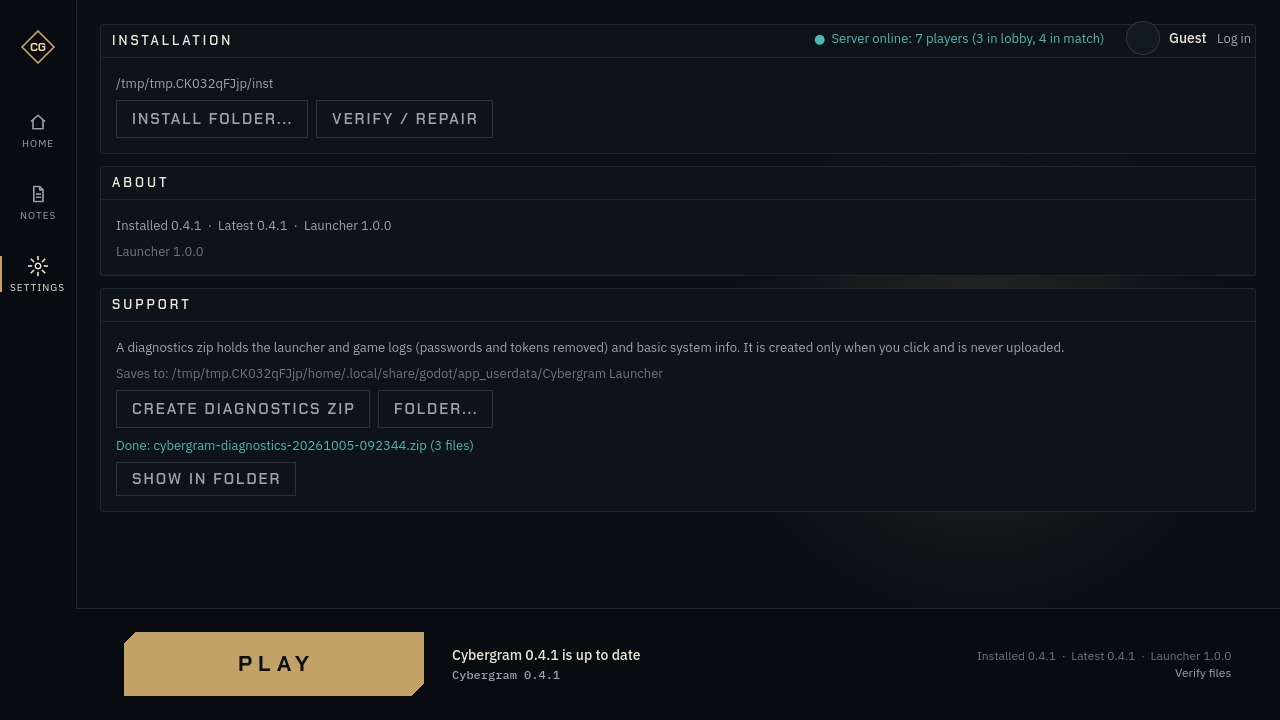
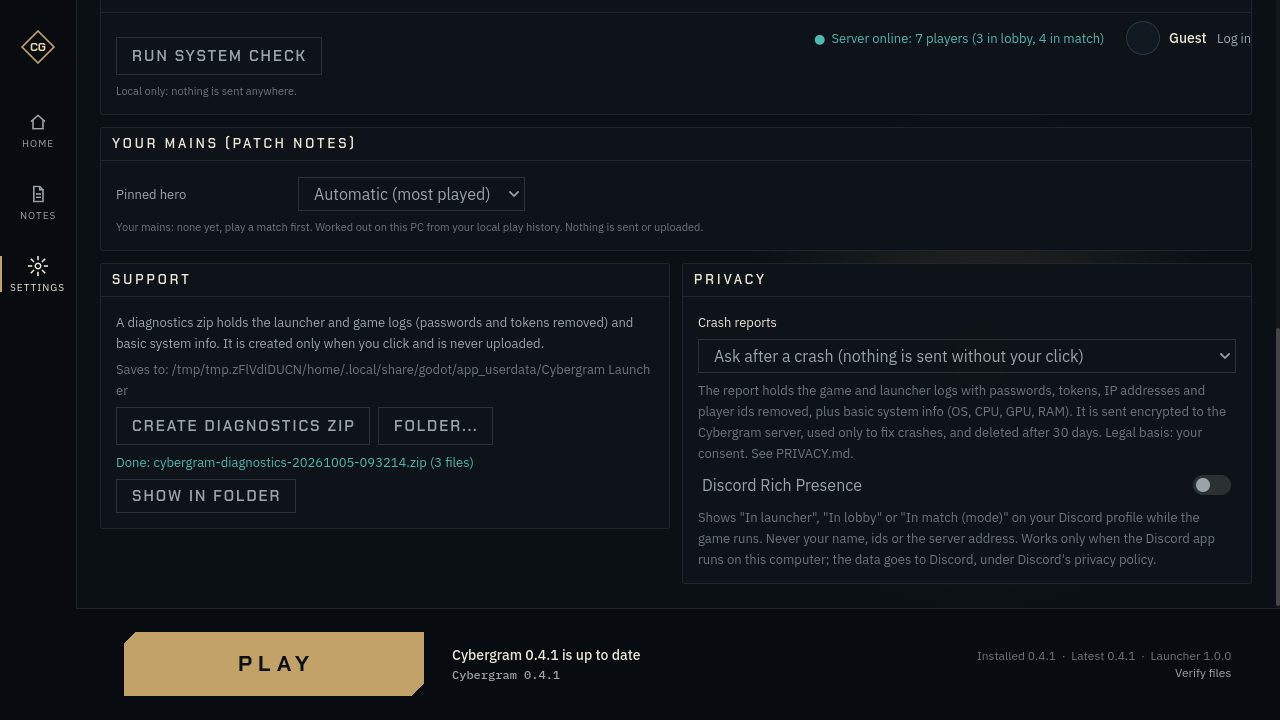
docs(privacy): launch codes, status/ping, party, crash reports, Discord
PRIVACY.md version 3: crash reports (purpose, consent, what is sent and
removed, DTLS only, 30-day retention, in-memory rate counters, how to ask
for deletion), the local diagnostics zip, Discord Rich Presence (opt-in),
launch codes (hash only, 60 s, single use), ping and parties (memory only).
Crash and privacy screenshots retaken without the first-run dialog.

Story: W15-ONLINE

Claude-Session: https://claude.ai/code/session_01EBZx3Dxb731aDMrCTE9Ggu

diff --git a/PRIVACY.md b/PRIVACY.md
@@ -1,7 +1,7 @@
 # Cybergram: Privacy Notice
 
 > **Draft. Needs a legal check before public release.** Written in plain
-> words for players. Version 2 (game v0.5.0, protocol v12).
+> words for players. Version 3 (game v0.11.0, protocol v15).
 
 **Offline play (PLAY VS BOTS, the test course) sends nothing anywhere.** This
 notice is about **online play**.
@@ -61,10 +61,77 @@ matches and minutes you played with each hero and when you last played it
 file on the same PC to show the patch notes for your most played heroes. It is
 never sent to any server. Delete the file to reset it.
 
+**Signing in through the launcher.** When you sign in in the launcher and
+press Play, the launcher asks the server for a one-time launch code and hands
+it to the game (in the game's environment, never on its command line). The
+server keeps only a scrambled form (a SHA-256 hash) of the code, linked to
+your account, in memory. The code works once and for 60 seconds at most, then
+it is deleted. Your password is never passed to the game.
+
+**Server status and ping.** The launcher shows whether the server is online,
+how many players are online (a number only) and your ping. To measure the
+ping it sends a tiny request over its connection every second while the
+launcher window is visible; nothing about it is stored. The message of the
+day is set by the operator and contains no data about you.
+
+**Party (online, memory only).** When you invite a friend to a party, or join
+one, the server keeps in memory who is in the party, who leads it and open
+invites (your player id and display name, as for the friends list), so that
+you start in the same lobby. Only your accepted friends can invite you.
+Invites expire after 2 minutes. A party is forgotten when you leave it, or
+when you have no connection left after the usual grace period of about a
+minute. Nothing about parties is written to disk.
+
+## Crash reports (only if you agree)
+
+**Purpose:** find and fix crashes. **Legal basis:** your consent,
+Art. 6(1)(a) GDPR.
+
+- When the game crashes, the launcher asks "Send crash report?". Nothing is
+  sent unless you click **Send**, or you chose "Send automatically" in the
+  launcher's Settings > Privacy (off by default). You can change this at any
+  time; withdrawing consent stops future reports.
+- **What is sent:** the game's and launcher's log files (the last part) and
+  basic system information (operating system and version, processor, number
+  of cores, memory, graphics card and driver, language, game and launcher
+  version, the exit code). Before sending, the launcher removes passwords,
+  session and launch codes, IP addresses, player and account ids, e-mail
+  addresses and your home folder path. No user name, computer name or device
+  id is included.
+- **How:** only over the encrypted (DTLS) connection to the game server.
+  Without encryption the launcher does not send it.
+- **Stored:** as one file on the server, without your IP address, account or
+  player id. To stop abuse the server counts reports per network address
+  (3 per hour) and per account (5 per day) **in memory only**; these counts
+  are forgotten after one day at the latest.
+- **How long:** deleted automatically after **30 days**. The server also
+  keeps the folder small (the oldest reports go first).
+- **Deletion before that:** because a report carries no name or id, we can
+  only find yours if you tell us roughly when it was sent (date and time) and
+  your operating system. Contact the operator above and we will delete the
+  matching report(s).
+
+**Diagnostics zip (local only).** Settings > Support in the launcher can
+create a zip file with the same logs (passwords and codes removed) and system
+information in your Downloads folder. It is created only when you click and
+is never uploaded; you decide whether to share it.
+
+## Discord Rich Presence (only if you switch it on)
+
+Off by default. If you switch it on in the launcher (Settings > Privacy), the
+game tells the Discord app running on your own computer what you are doing,
+and Discord shows it on your Discord profile: "In launcher", "In lobby" or
+"In match" with the game mode. Your Cybergram name, ids and the server
+address are never shared. The game talks only to the local Discord app; what
+Discord does with this is covered by Discord's own privacy policy. Switch it
+off at any time; the status disappears when the game closes. If Discord is
+not running, nothing happens.
+
 ## Legal basis
 
 Art. 6(1)(b) GDPR: we need this data to provide the online game you sign up
-for (the contract). You must be **at least 14** to create an account
+for (the contract). Crash reports and Discord Rich Presence are based on your
+consent (Art. 6(1)(a) GDPR), see their sections above. You must be **at least 14** to create an account
 (Austria, Art. 8 GDPR and § 4 DSG). You confirm both when you register.
 
 ## How long
@@ -74,6 +141,9 @@ for (the contract). You must be **at least 14** to create an account
   automatically.** The server checks this when it starts and once a day.
 - Session data, presence and chat: only while you are connected, as
   described above.
+- Launch codes: 60 seconds at most, or until used. Parties and invites: while
+  you are connected (invites 2 minutes).
+- Crash reports: 30 days, then deleted automatically.
 
 ## Server logs
 
